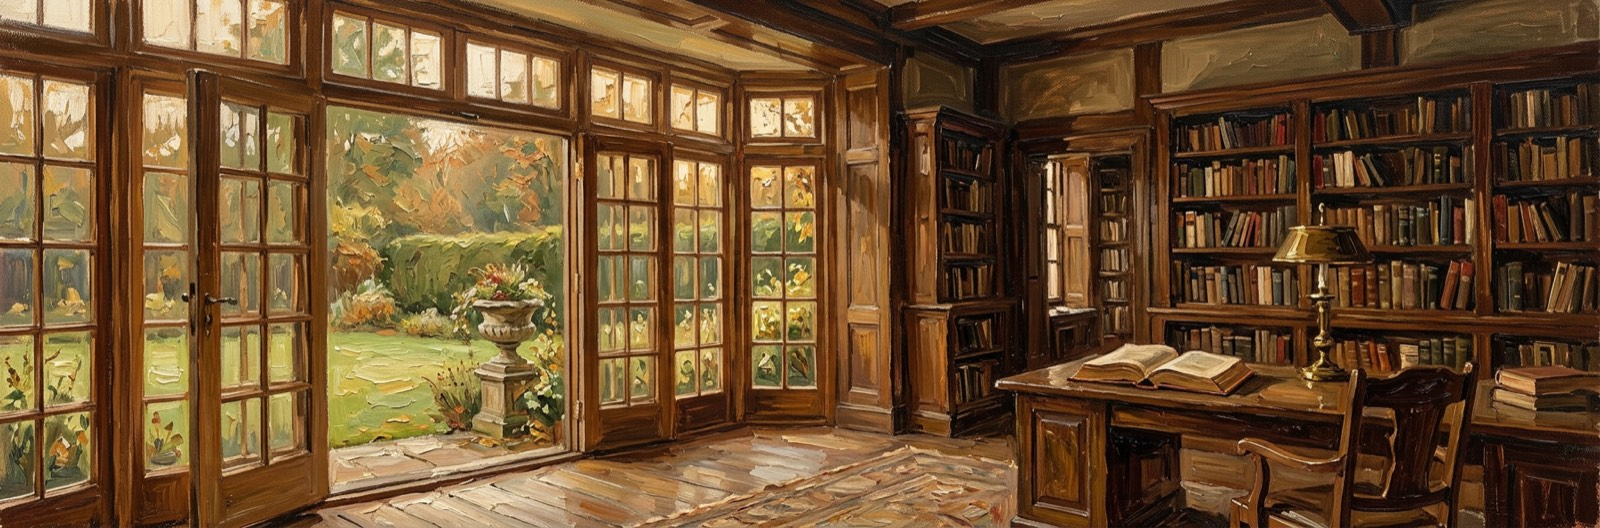
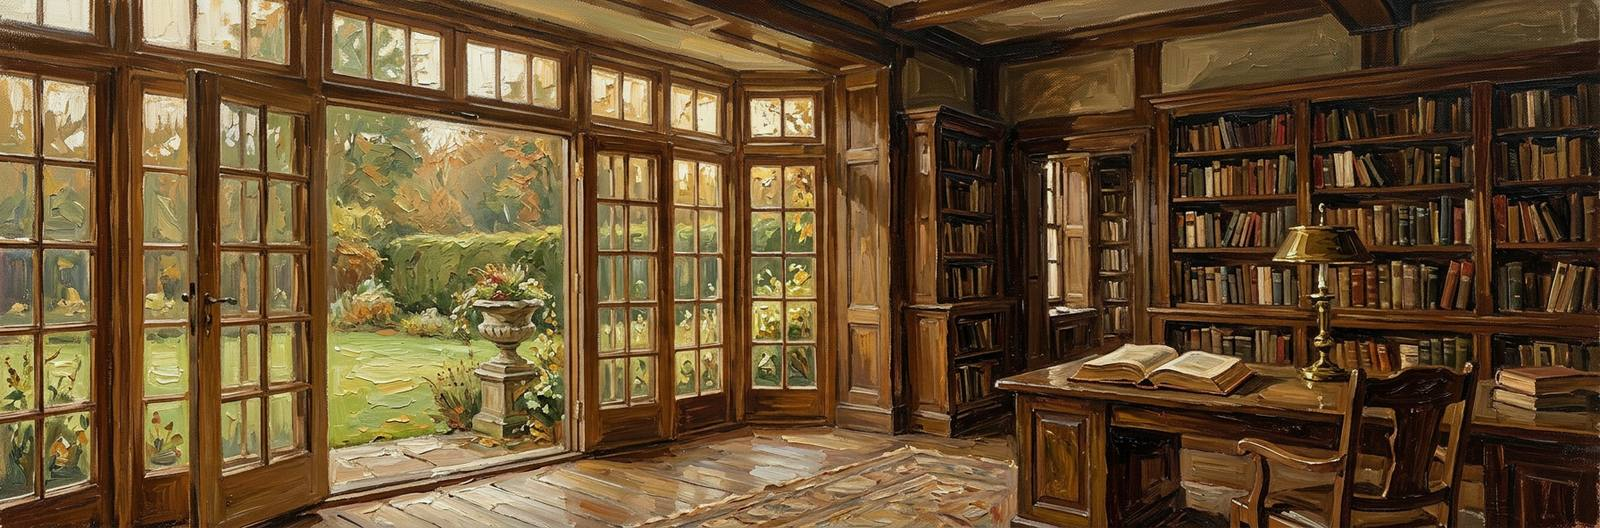
feat(getting-started): the room says hello, the painting stops being a card, and the page gets a second voice
Adam on the first view: "supposed to be POWERFUL… safe, home, intimate",
and it read B-. The diagnosis it came from: the painting was intimate and
every word under it was administrative.

- The welcome greets. "Welcome in." — the doors in the painting are open,
  and the room had opened with a feature sentence and no hello.
- The admin paragraph loses the stopwatch ("the first three take a few
  minutes; the fourth is a conversation of about twenty") and the
  reassurance ("Your progress is kept"). What remains is the four things,
  the order, and the door.
- A standfirst. "Virtues records, remembers, and recounts your life" was
  set as body copy, indistinguishable from the admin under it. It is the
  serif at 21px with air beneath — the page's one voice change, and the
  only thing in the room that is neither heading nor body.
- The cover is not a component any more: no border, no radius. It runs to
  the column's edges and dissolves into the paper with a mask — bottom and
  both sides — so it reads as the top of a page rather than an image
  pasted onto one.
- The painting is cooled about 5% in the asset itself (red down 4.5%,
  blue up 4.5%, green untouched so nothing greys), not with a runtime
  filter. It was very warm on top of already warm. Re-encoded at q72
  progressive: 273KB to 171KB.
- The two serif headings come off one scale: the step heading takes the
  markdown h2 token (1.375rem) instead of the 1.25rem I invented.
[…]

diff --git a/apps/web/src/lib/components/tabs/views/ChatView.svelte b/apps/web/src/lib/components/tabs/views/ChatView.svelte
@@ -3384,8 +3384,28 @@
 	.messages-container.room .message-wrapper:not([data-role="user"]) {
 		padding: 0;
 	}
-	.messages-container.room .message-wrapper:not([data-role="user"]) :global(.markdown > :last-child) {
+	/* `.markdown > .streamdown-content > <blocks>` — Streamdown nests its
+	   output one level, so the original `.markdown > :last-child` matched
+	   that wrapper and never the last paragraph. The trailing margin stayed,
+	   and the room's lines sat 2rem apart while paragraphs inside a line sat
+	   at 1rem — the very thing this rule was written to fix. */
+	.messages-container.room .message-wrapper:not([data-role="user"]) :global(.markdown > * > :last-child) {
 		margin-bottom: 0;
+	}
+
+	/* ── The standfirst ──
+	   The welcome's opening line is the most important sentence in the
+	   product and was set as body copy, indistinguishable from the admin
+	   paragraph beneath it. It carries the page's one voice change: the
+	   book's serif, a size up, with air under it. Everything else in the
+	   room stays body. */
+	/* Descendant, not child: Streamdown nests its output one level inside
+	   `.markdown`, so `>` never matched. */
+	.messages-container.room .message-wrapper[data-subject="gs:welcome"] :global(.markdown p:first-of-type) {
+		font-family: var(--md-heading-major-family, var(--font-serif));
+		font-size: 1.3125rem;
+		line-height: 1.5;
+		margin-bottom: 1.25rem;
 	}
 
 	/* `.settled` is still set on every line the room speaks about a step that

diff --git a/apps/web/src/lib/components/chat/getting-started/RoomCover.svelte b/apps/web/src/lib/components/chat/getting-started/RoomCover.svelte
@@ -29,14 +29,13 @@
 </figure>
 
 <style>
+	/* No border, no radius, no card. A frontispiece is not a component
+	   pasted onto a page — it IS the top of the page, so the paint runs to
+	   the column's edges and dissolves into the paper where the words
+	   begin. Masked rather than faded with an overlay, so it works on any
+	   ground, light or dark. */
 	.cover {
-		margin: 0 0 1.75rem;
-		border-radius: 6px;
-		overflow: hidden;
-		background: var(--color-surface-elevated, rgba(0, 0, 0, 0.03));
-		/* The painting is warm and opaque in both themes — paint does not
-		   invert — so a hairline keeps it from floating on a dark ground. */
-		border: 1px solid var(--color-border-subtle, var(--color-border));
+		margin: 0 0 2rem;
 	}
 	img {
 		display: block;
@@ -46,7 +45,15 @@
 		object-fit: cover;
 		object-position: center 42%;
 		opacity: 0;
-		transition: opacity 0.4s ease;
+		transition: opacity 0.5s ease;
+		-webkit-mask-image:
+			linear-gradient(to bottom, #000 62%, transparent 100%),
+			linear-gradient(to right, transparent 0, #000 5%, #000 95%, transparent 100%);
+		mask-image:
+			linear-gradient(to bottom, #000 62%, transparent 100%),
+			linear-gradient(to right, transparent 0, #000 5%, #000 95%, transparent 100%);
+		-webkit-mask-composite: source-in;
+		mask-composite: intersect;
 	}
 	.cover.loaded img {
 		opacity: 1;

diff --git a/apps/web/src/lib/components/chat/getting-started/StepEyebrow.svelte b/apps/web/src/lib/components/chat/getting-started/StepEyebrow.svelte
@@ -45,7 +45,10 @@
 		margin: 0 0 0.5rem;
 		padding-top: 0.75rem;
 		font-family: var(--md-heading-major-family, var(--font-serif));
-		font-size: 1.25rem;
+		/* The markdown's own h2 token, so the room's two serif headings come
+		   off one scale — 1.25rem was a number I invented, and it sat a step
+		   below the scale rather than on it. */
+		font-size: var(--md-h2-size, 1.375rem);
 		font-weight: 400;
 		line-height: 1.3;
 		font-variant-numeric: tabular-nums;

diff --git a/virtues-core/src/api/getting_started.rs b/virtues-core/src/api/getting_started.rs
@@ -403,7 +403,7 @@ fn subject_of(line: &str) -> String {
     format!("gs:{line}")
 }
 
-const WELCOME: &str = "# Getting started\n\nVirtues records, remembers, and recounts your life.\n\nFour things have to be in place before it can start: connecting AI, introductions, your integrations, and your story. This conversation sets them up in order. The first three take a few minutes; the fourth is a conversation of about twenty. You can stop at any point using the door in the top right and come back later. Your progress is kept.";
+const WELCOME: &str = "# Getting started\n\nWelcome in. Virtues records, remembers, and recounts your life.\n\nFour things have to be in place before it can start: connecting AI, introductions, your integrations, and your story. This conversation sets them up in order, and you can stop at any point using the door in the top right.";
 
 const GRADUATED: &str =
     "That is all four. This room stays open for questions about your setup; the rest of Virtues is yours.";
